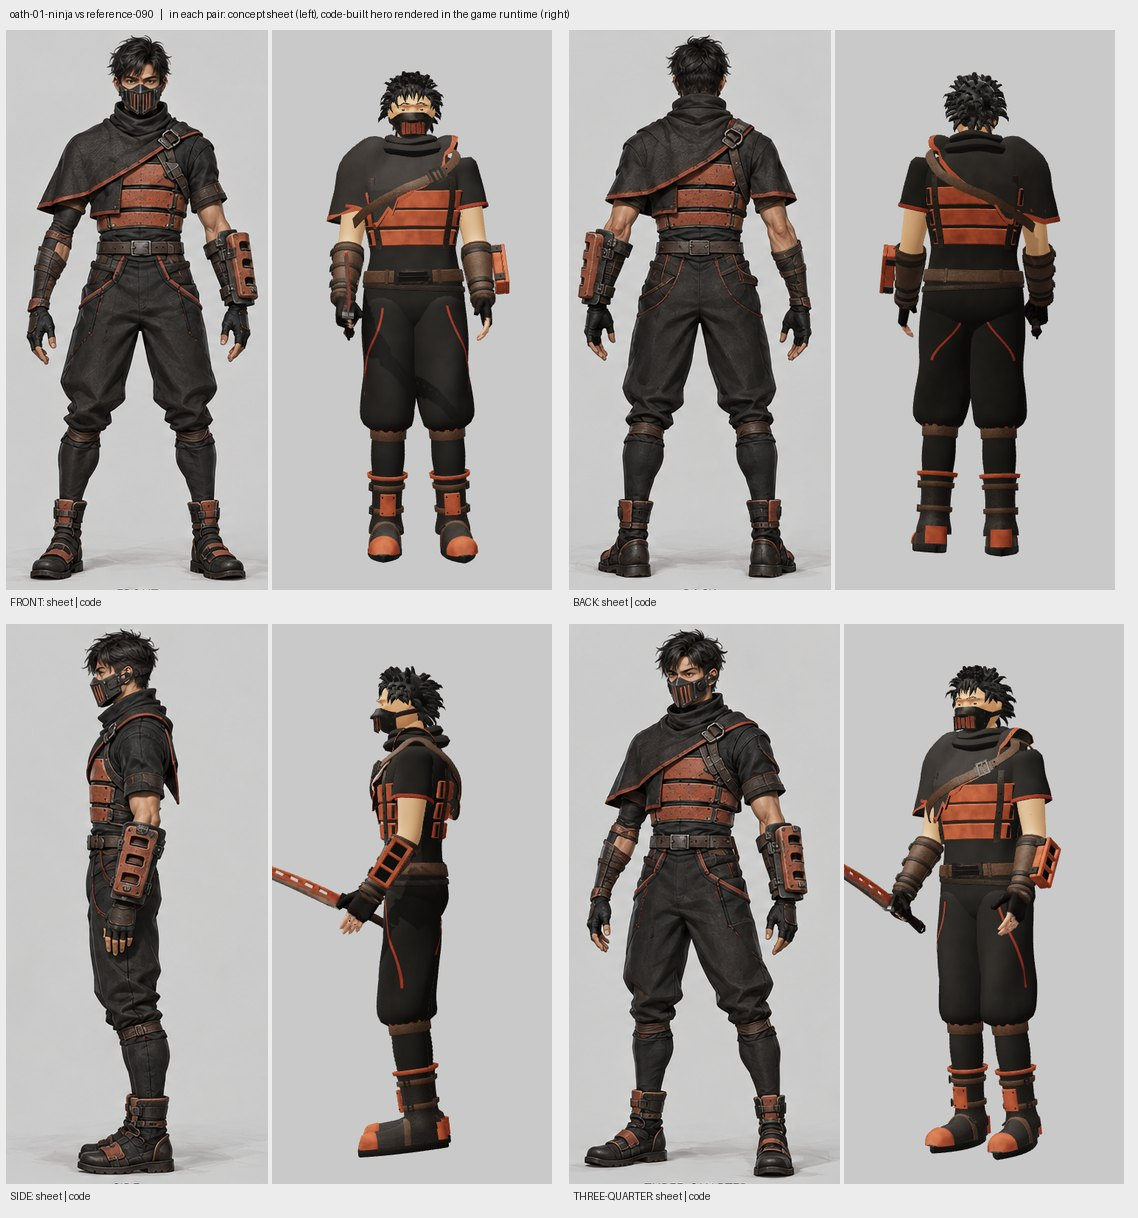
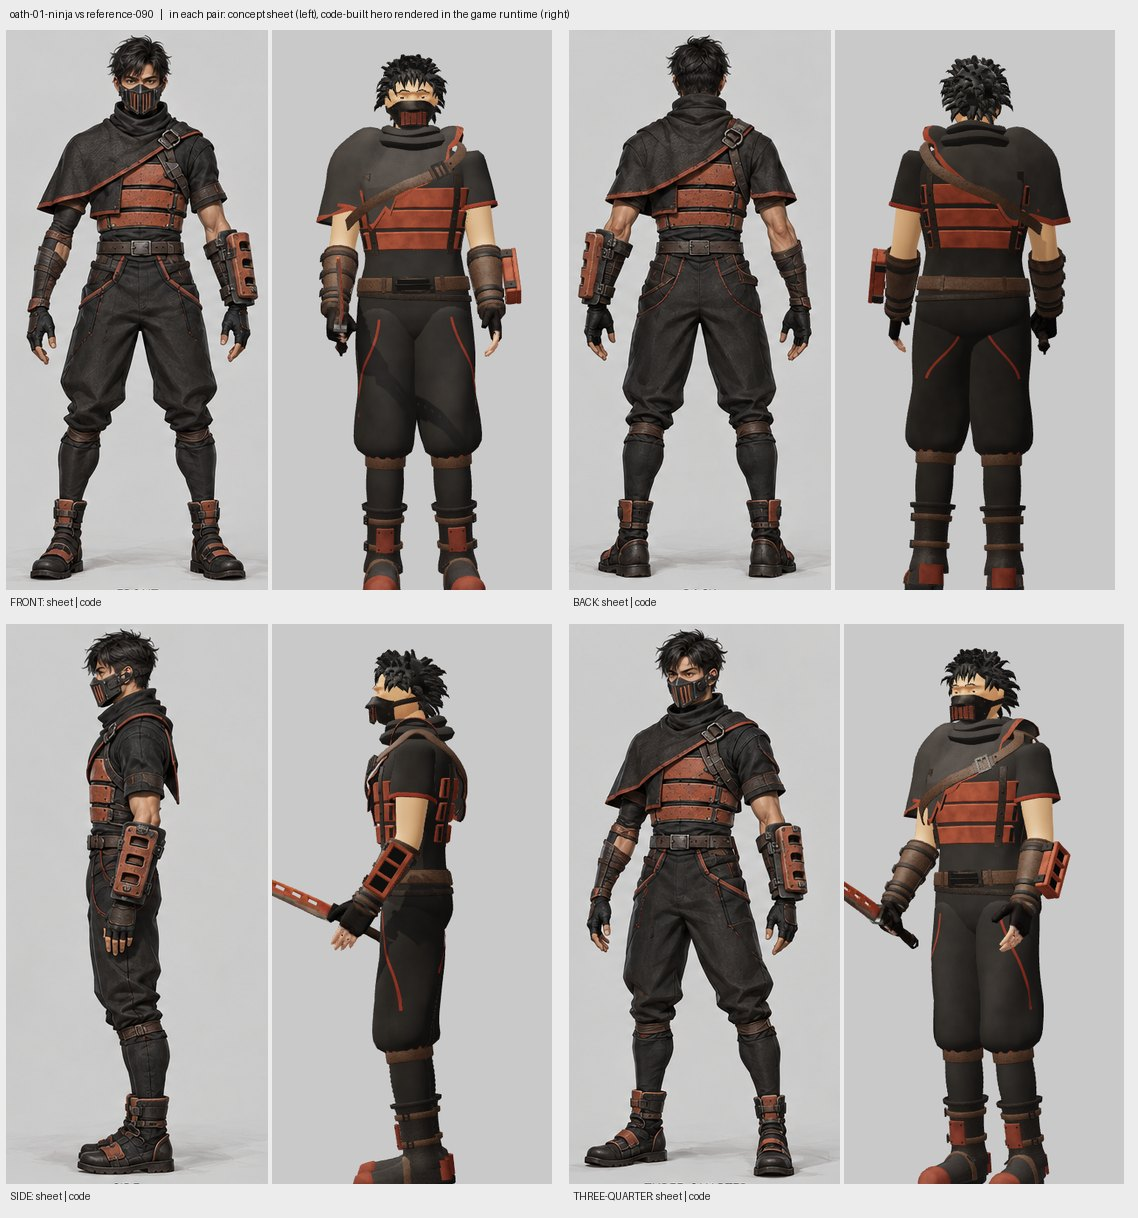
Sheet costumes follow the actor in the world; side-by-side evidence for both Kiln heroes
The costume rig was measured through the skinned mesh's live bind inverse, which only matches the bind pose
at the world origin, so in game the costume was built far from the hero. It now uses the bind matrix.

Claude-Session: https://claude.ai/code/session_01SYnDkjpH2GusYDnF3Uckgg

diff --git a/game/src/three/character/sheets/wear.js b/game/src/three/character/sheets/wear.js
@@ -19,7 +19,9 @@ export function sheetRecipe(desc) { return desc && desc.kind !== 'mob' && desc.o
 export function rigOf(body) {
   const mesh = body.meshes.filter((m) => m.isSkinnedMesh).sort((a, b) => b.geometry.attributes.position.count - a.geometry.attributes.position.count)[0];
   if (!mesh) return null;
-  const J = {}, index = {}, toGeometry = new Matrix4().copy(mesh.bindMatrixInverse), bind = new Matrix4();
+  // The mesh's bind matrix, not bindMatrixInverse: an attached SkinnedMesh rewrites the latter from its current
+  // world matrix every frame, so it only equals the bind inverse while the actor stands at the origin.
+  const J = {}, index = {}, toGeometry = new Matrix4().copy(mesh.bindMatrix).invert(), bind = new Matrix4();
   mesh.skeleton.bones.forEach((bone, i) => { const name = boneName(bone.name); index[name] = i; J[name] = new Vector3().setFromMatrixPosition(bind.copy(mesh.skeleton.boneInverses[i]).invert().premultiply(toGeometry)); });
   const need = ['hips', 'spine', 'spine1', 'spine2', 'neck', 'head', 'shoulder.L', 'upperarm.L', 'forearm.L', 'hand.L', 'thigh.L', 'shin.L', 'foot.L', 'toe.L'];
   return need.every((name) => J[name]) ? { mesh, J, index } : null;
